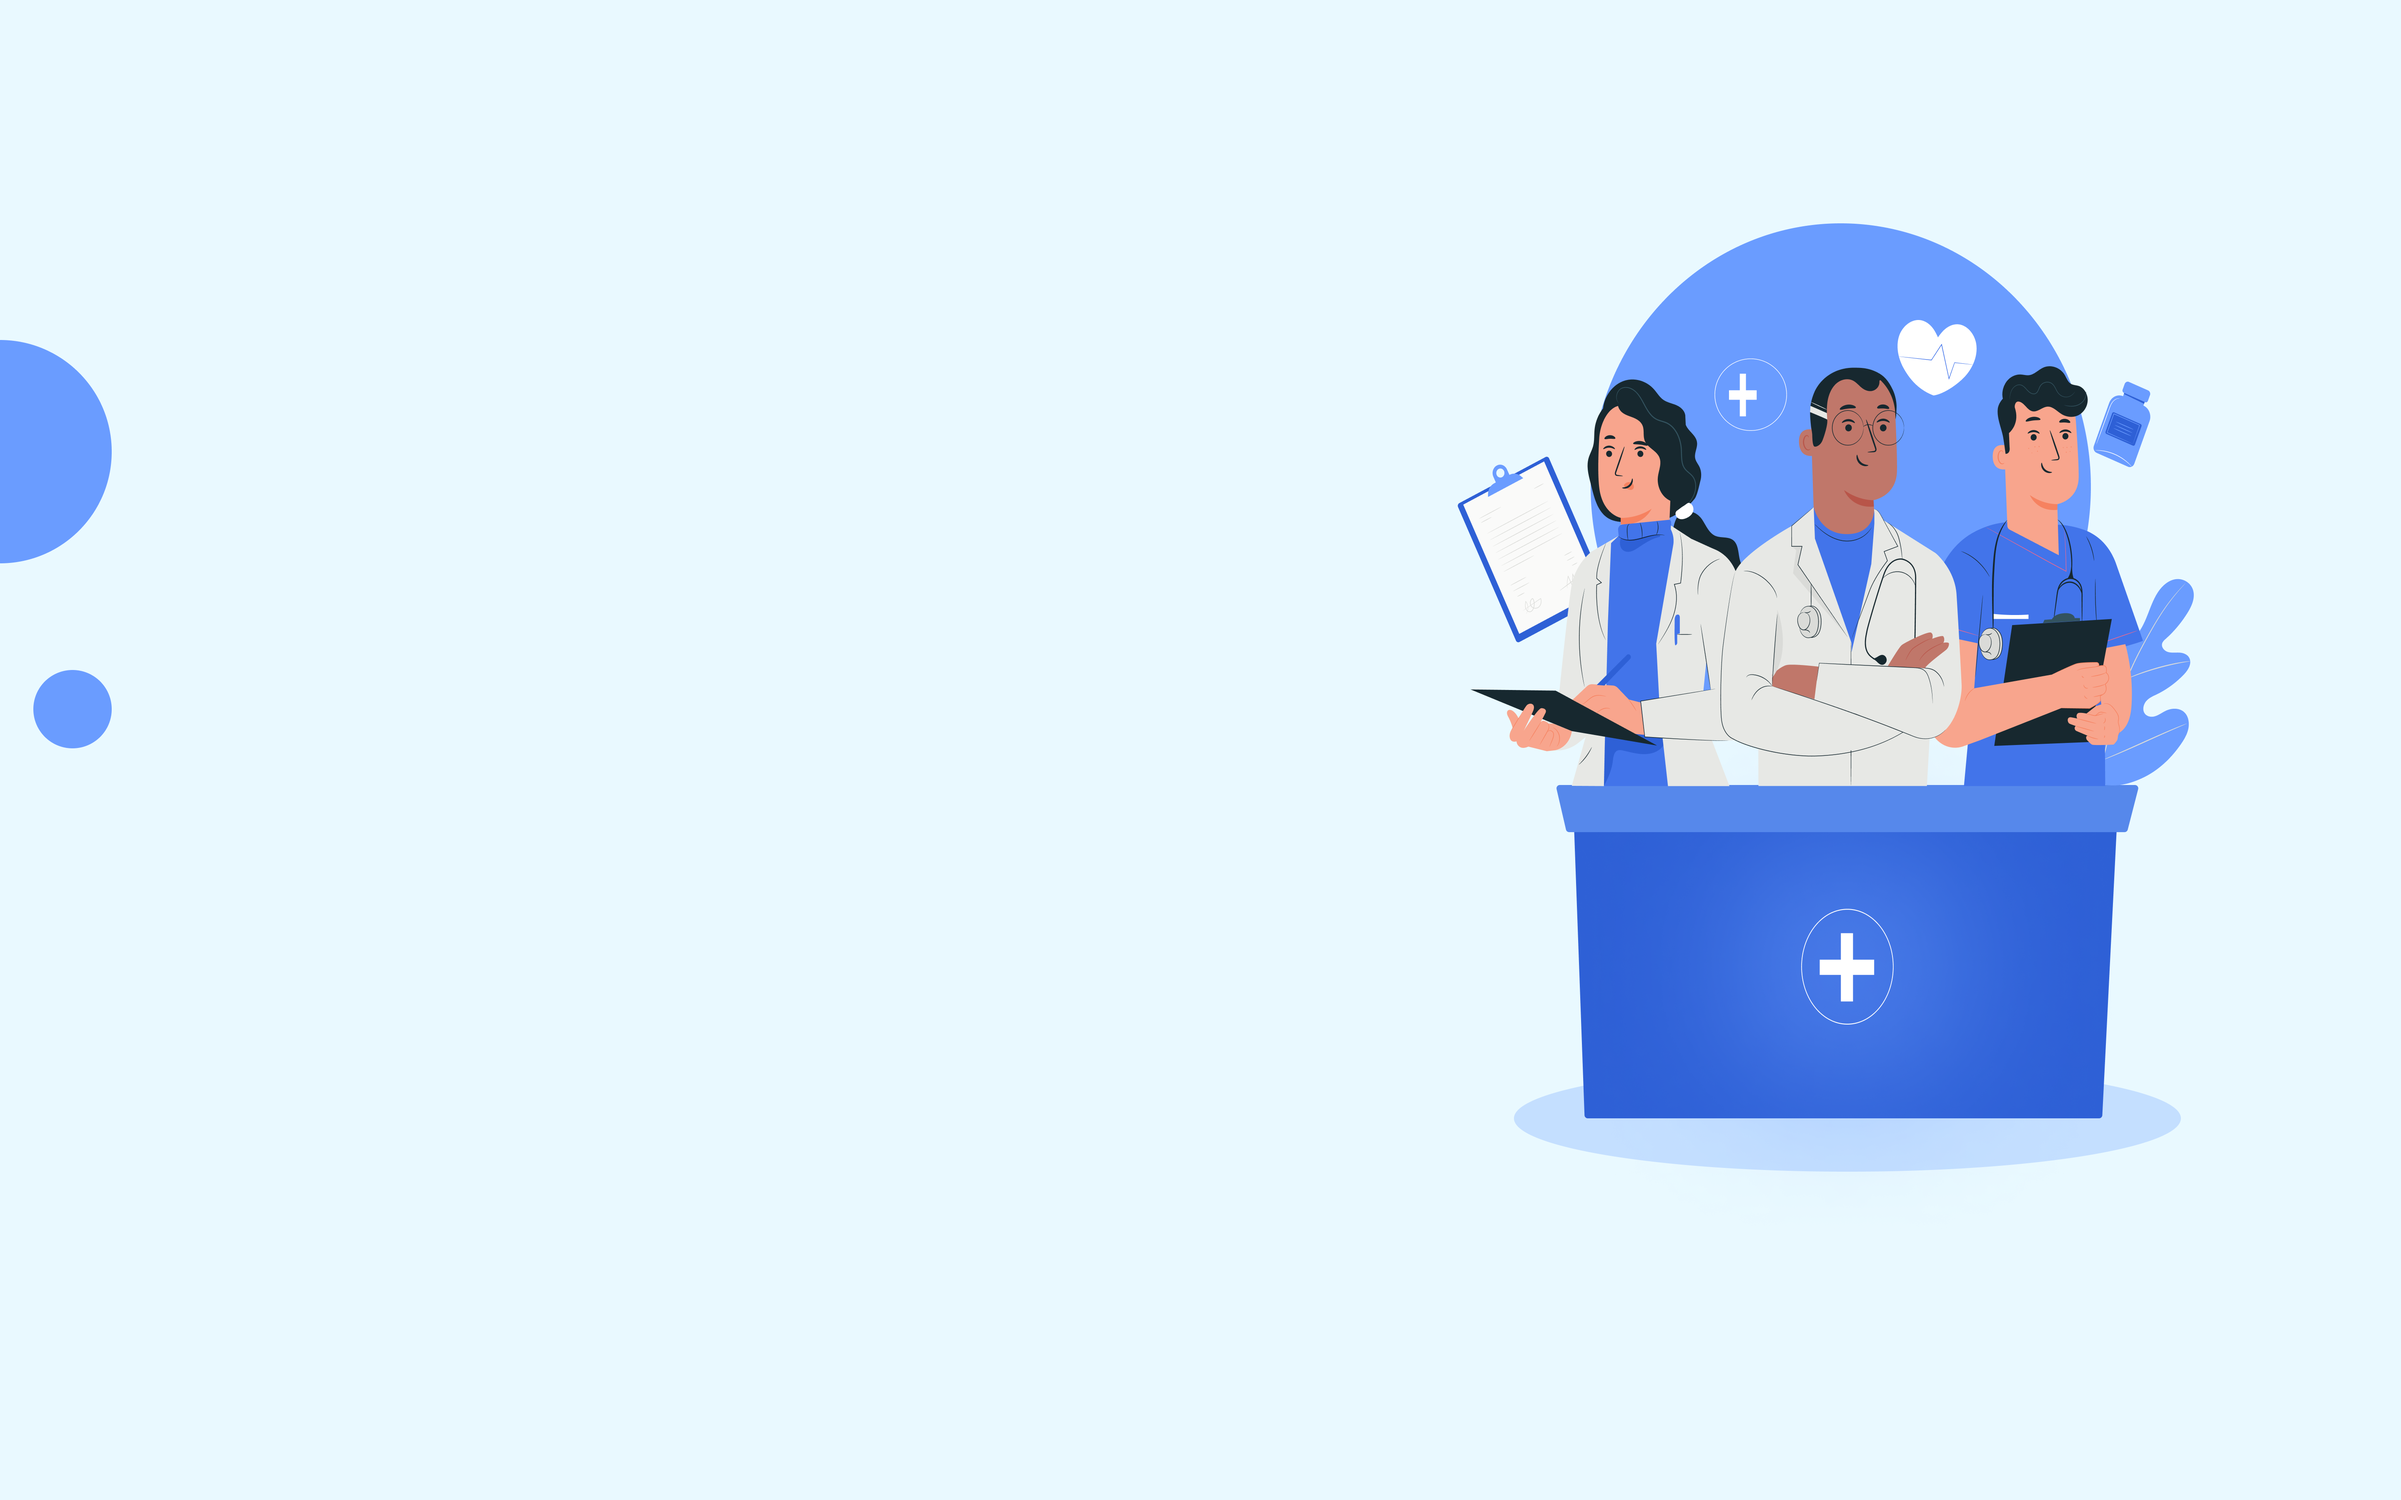
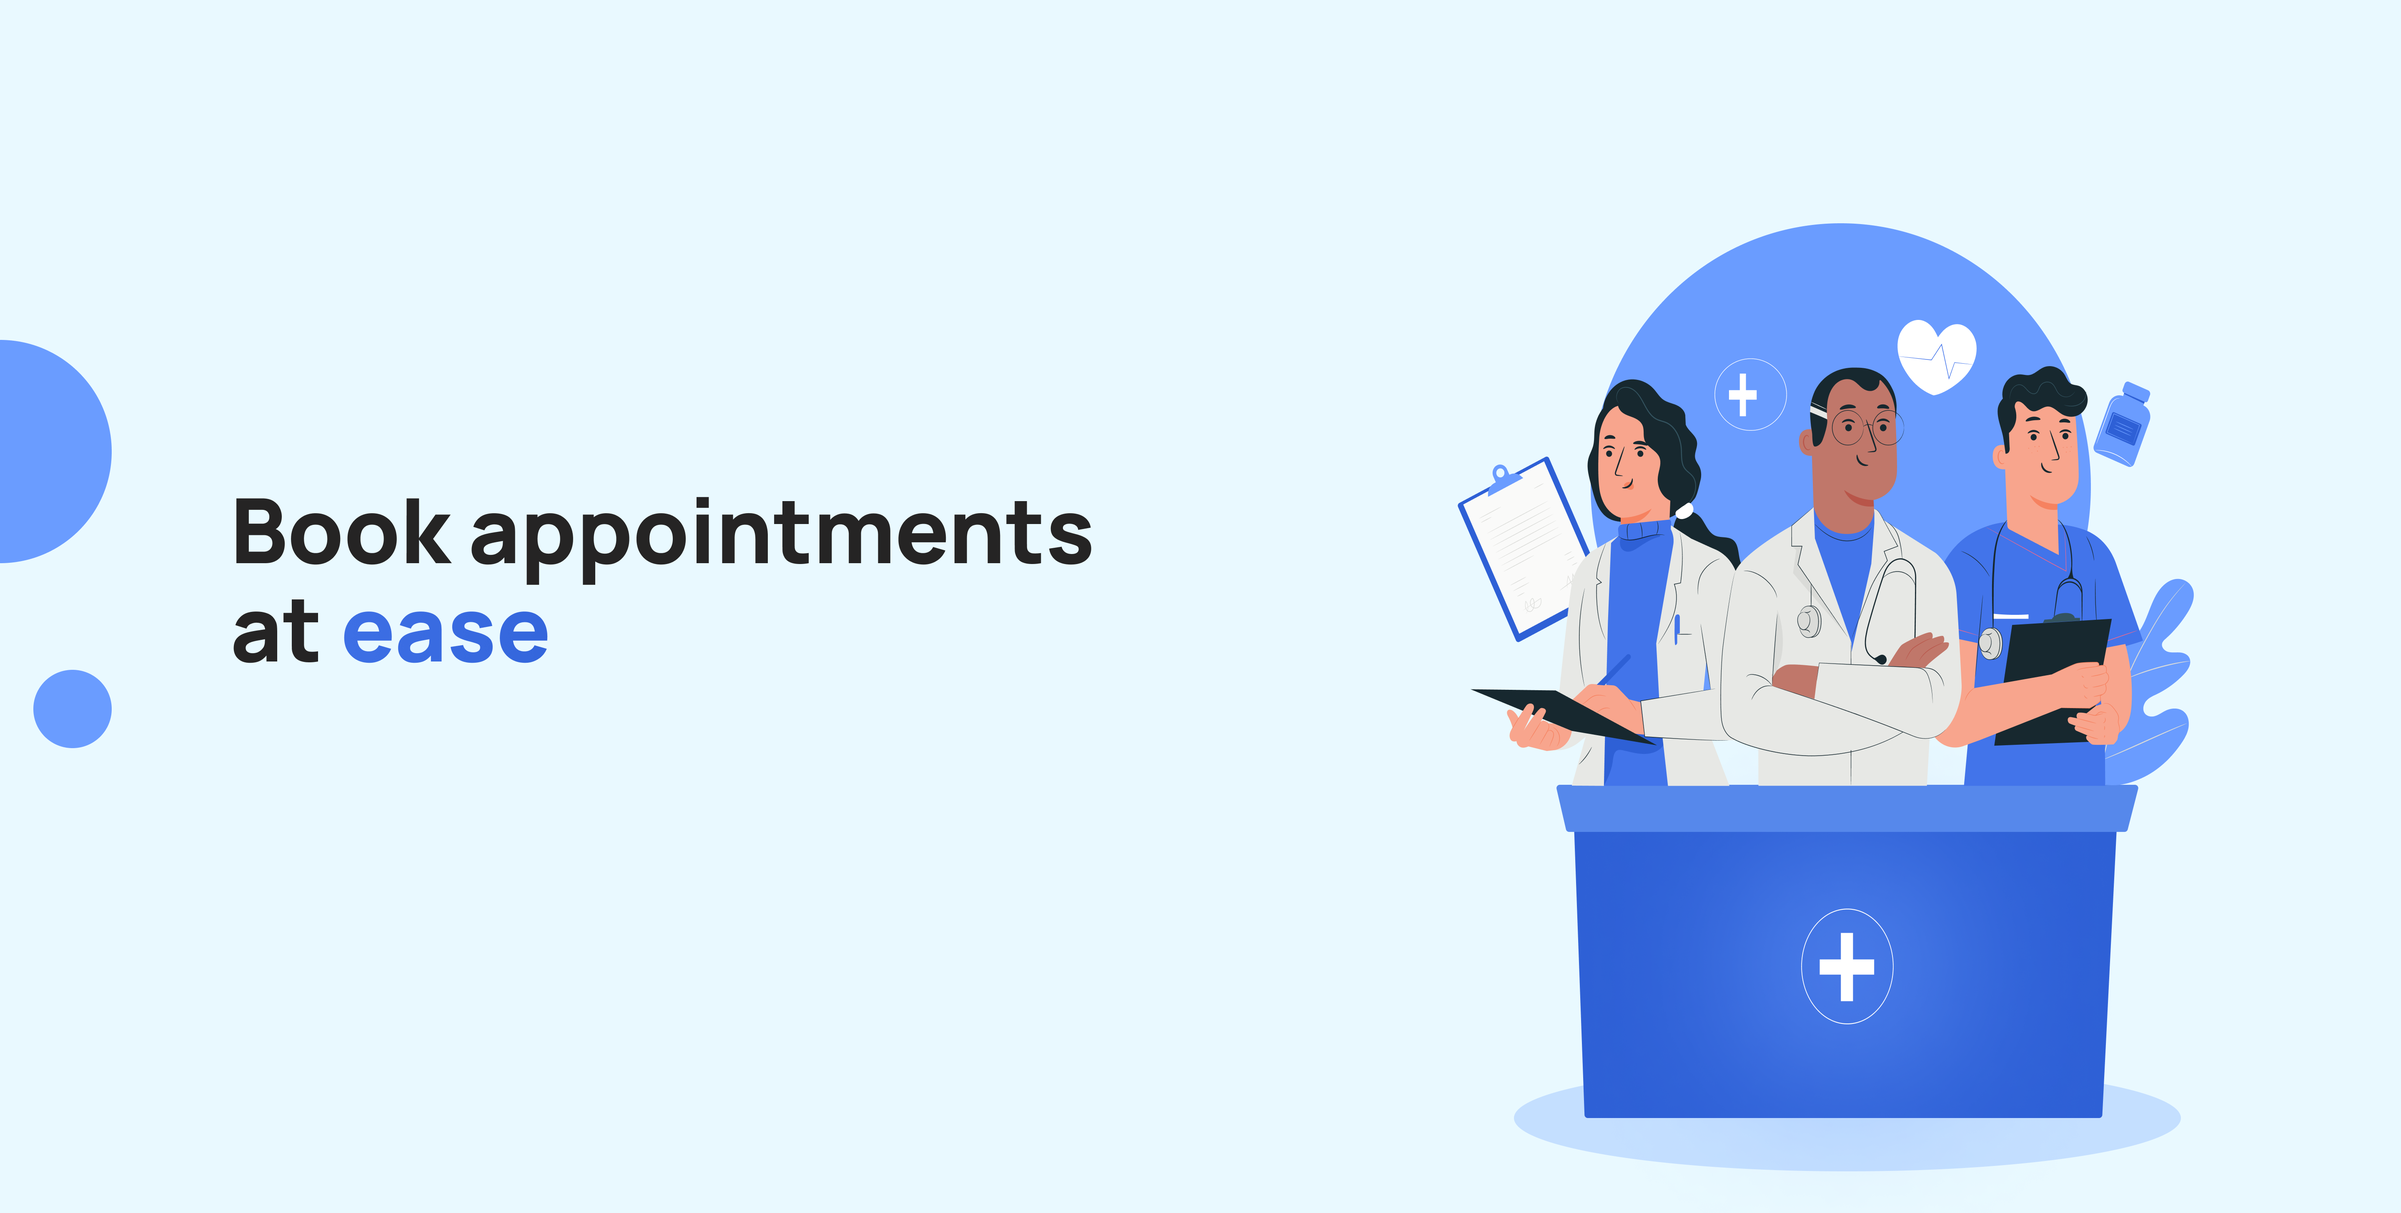
add landing page component

diff --git a/client/src/assets/Navbar.jsx b/client/src/assets/Navbar.jsx
@@ -1,20 +1,16 @@
 import '../styles/Navbar.css';
 function Navbar(){
     return(
-        <div className="Home">
-            <img src="/BG.png" alt="" />
-            <div className="Navbar">
-                <h1>MedLog</h1>
-                <ul>
-                    <li>Home</li>
-                    <li>Appointments</li>
-                    <li>Pharmacy</li>
-                    <li>Help</li>
-                    <li id="login-btn">Sign in</li>
-                </ul>
-            </div>
+        <div className="Navbar">
+            <h1>MedLog</h1>
+            <ul>
+                <li>Home</li>
+                <li>Appointments</li>
+                <li>Pharmacy</li>
+                <li>Help</li>
+                <li id="login-btn">Sign in</li>
+            </ul>
         </div>
-        
     )
 }
 export default Navbar;

diff --git a/client/src/styles/LandingPage.css b/client/src/styles/LandingPage.css
@@ -1,0 +1,38 @@
+.Home{
+    min-width: 100%;
+    min-height: 100vh;
+    margin: 0;
+    padding: 0;
+    background-color: black;
+}
+.Home img{
+    width: 100%;
+    margin: 0;
+    padding: 0;
+}
+.Home button{
+    background-color: #3E70E6;
+    border: #3E70E6 1px solid;
+    border-radius: 50px; 
+    position:absolute;
+    top: 30vw;
+    left: 9vw;
+    min-width:10vw;
+    height: 7vh;
+    color: white;
+    font-weight: bold;
+    padding: 0 1rem 0 1rem;
+    font-size: 100%;
+}
+.Home button:hover{
+    background-color: #E9F9FF;
+    color: #3E70E6;
+    transition: 0.5s;
+}
+@media only screen and (max-width: 600px) {
+    .Home button{
+        height: 4vh;
+        font-size: 60%;
+        padding: 0 0.5rem 0 0.5rem;
+    }
+}

diff --git a/client/src/styles/Navbar.css b/client/src/styles/Navbar.css
@@ -1,10 +1,3 @@
-.Home{
-    min-width: 100%;
-    min-height: 100vh;
-}
-.Home img{
-    width: 100%;
-}
 .Navbar{
     padding: 1vw;
     background-color: #4274EA;
@@ -33,6 +26,7 @@
     list-style: none;
     padding: 1rem;
     align-items: center;
+    border-radius: 50px;
 }
 .Navbar li:hover{
     cursor: pointer;
@@ -43,6 +37,7 @@
 }
 #login-btn{
     background-color: white;
+    margin-left: 1vw;
     color: #4274EA;
     font-weight: bold;
     border-radius: 50px;

diff --git a/client/src/assets/LandingPage.jsx b/client/src/assets/LandingPage.jsx
@@ -1,0 +1,15 @@
+import Navbar from "./Navbar";
+import '../styles/LandingPage.css';
+function LandingPage(){
+    return(
+        <div className="Home">
+            <img src="/BG.png"/>
+            <Navbar></Navbar>
+            <button>Book Appointment</button>
+            <img src="/BG2.png"/>
+            <img src="/BG3.png" alt="" />
+        </div>
+        
+    )
+}
+export default LandingPage;

diff --git a/client/src/App.jsx b/client/src/App.jsx
@@ -1,9 +1,11 @@
 import './App.css'
-import Navbar from './assets/Navbar'
+import LandingPage from './assets/LandingPage'
+import Footer from './assets/Footer'
 function App() {
   return (
     <>
-      <Navbar></Navbar>
+      <LandingPage></LandingPage>
+      <Footer></Footer>
     </>
   )
 }

diff --git a/client/src/styles/Footer.css b/client/src/styles/Footer.css
@@ -1,0 +1,13 @@
+.Footer{
+    width: 100%;
+    height: 30vh;
+    background-color: #4274EA;
+    margin: 0;
+    padding: 0;
+    display: flex;
+    justify-content: center;
+    align-items: center;
+}
+.Footer h1{
+    margin: 0;
+}

diff --git a/client/src/assets/Footer.jsx b/client/src/assets/Footer.jsx
@@ -1,0 +1,9 @@
+import '../styles/Footer.css'
+function Footer(){
+    return(
+        <div className="Footer">
+            <h1>Footer</h1>
+        </div>
+    )
+}
+export default Footer;

diff --git a/client/src/App.css b/client/src/App.css
@@ -2,5 +2,4 @@ body{
     margin: 0;
     padding: 0;
     font-family: Arial, Helvetica, sans-serif;
-    background-color: black;
 }
